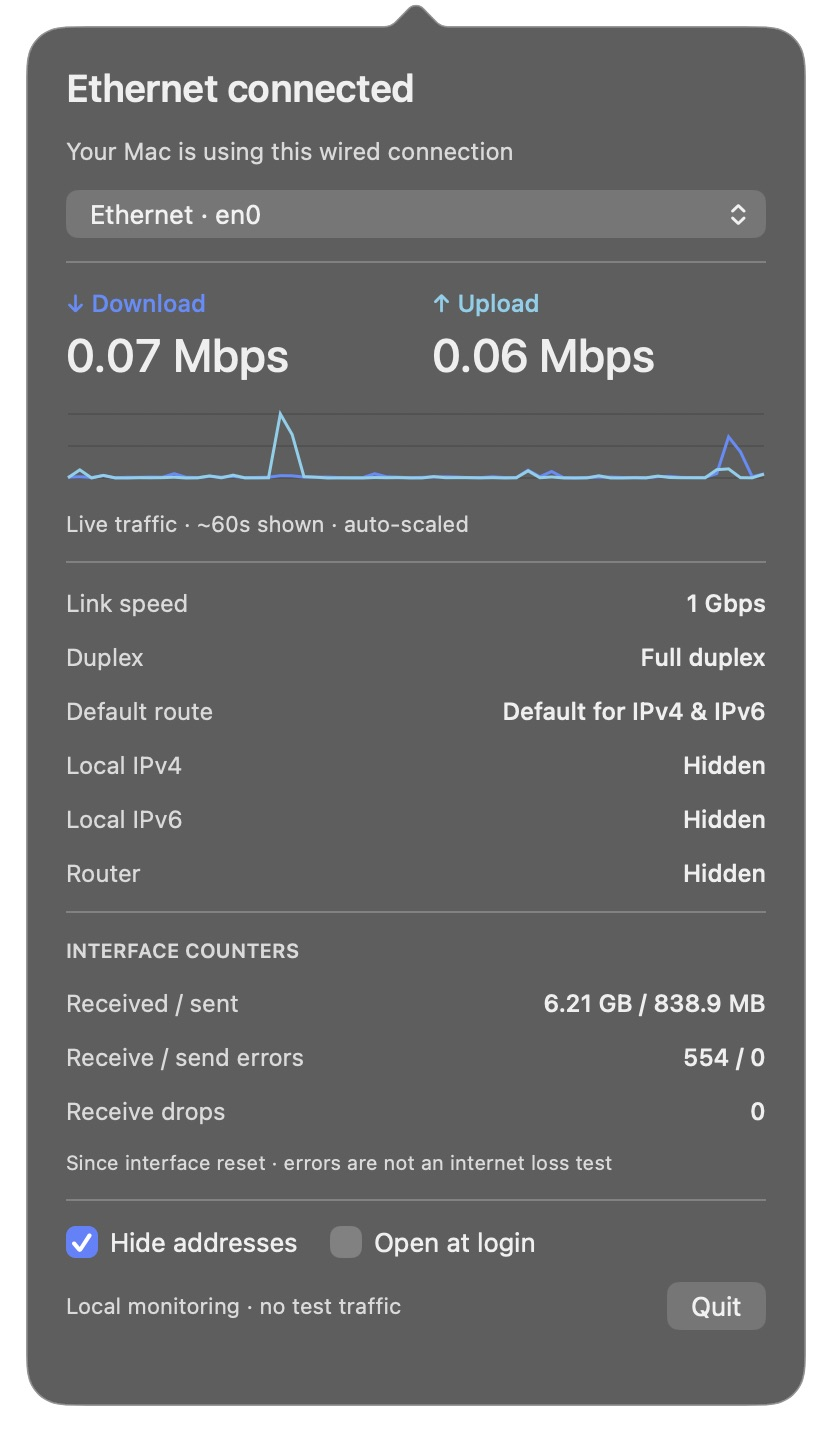
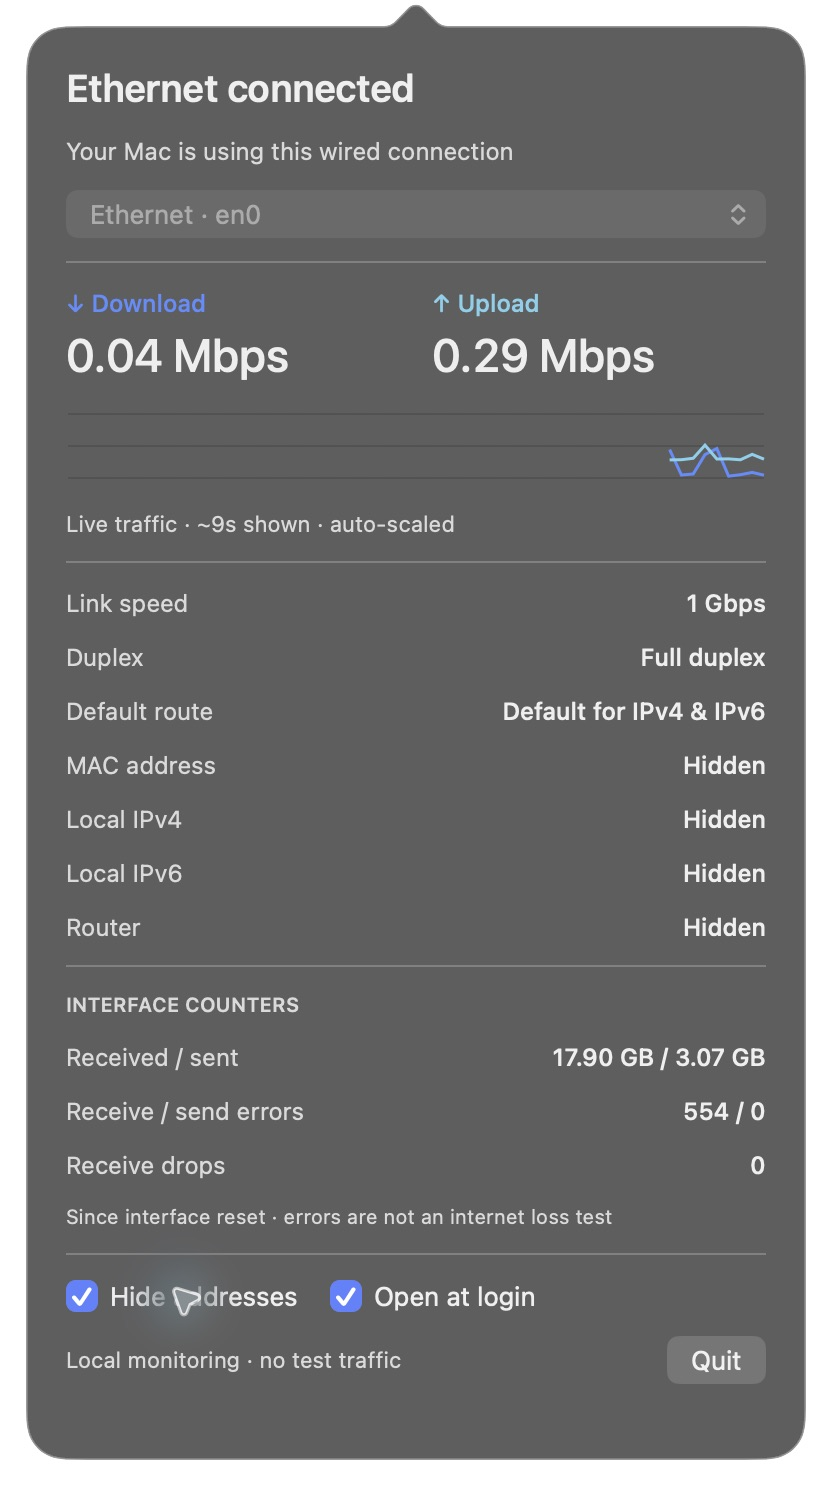
Show in-use Ethernet adapters and selected MAC address

diff --git a/Tests/WiredStatusTests/InterfaceSelectionTests.swift b/Tests/WiredStatusTests/InterfaceSelectionTests.swift
@@ -1,0 +1,58 @@
+import XCTest
+@testable import WiredStatus
+
+final class InterfaceSelectionTests: XCTestCase {
+    private func adapter(_ name: String, link: LinkState = .disconnected, primary: Bool = false, mac: String? = nil) -> InterfaceSnapshot {
+        InterfaceSnapshot(name: name, displayName: "Test Ethernet", link: link, speedBps: 1_000_000_000,
+                          duplex: "Full duplex", ipv4: [], ipv6: [], router: nil,
+                          primaryIPv4: primary, primaryIPv6: false, macAddress: mac)
+    }
+
+    func testQuietLinkedAdaptersStayVisibleAndUnusedSavedChoiceIsSkipped() {
+        let main = adapter("wired-main", link: .connected, primary: true)
+        let peer = adapter("wired-peer", link: .connected)
+        let unused = adapter("unused-usb")
+        let all = [main, unused, peer]
+        let selected = InterfaceSelection.selected(from: all, preferredName: unused.name, previousName: unused.name)
+        XCTAssertEqual(selected?.name, main.name)
+        XCTAssertEqual(InterfaceSelection.visible(from: all, selectedName: selected?.name).map(\.name), [main.name, peer.name])
+    }
+
+    func testDisconnectKeepsLastAdapterAndRemovedAdaptersCannotLeaveAStaleSelection() {
+        let unused = adapter("unused-usb")
+        let dropped = adapter("wired-main")
+        let all = [unused, dropped]
+        let selected = InterfaceSelection.selected(from: all, preferredName: nil, previousName: dropped.name)
+        XCTAssertEqual(selected?.name, dropped.name)
+        XCTAssertEqual(InterfaceSelection.visible(from: all, selectedName: selected?.name).map(\.name), [dropped.name])
+
+        let remaining = InterfaceSelection.selected(from: [unused], preferredName: dropped.name, previousName: dropped.name)
+        XCTAssertEqual(remaining?.name, unused.name)
+        XCTAssertNil(InterfaceSelection.selected(from: [], preferredName: dropped.name, previousName: dropped.name))
+        XCTAssertTrue(InterfaceSelection.visible(from: [], selectedName: dropped.name).isEmpty)
+    }
+
+    func testDefaultRouteWithUnknownDriverLinkStatusRemainsSelectable() {
+        let unavailable = adapter("unused-usb")
+        let defaultRoute = adapter("wired-main", link: .unknown, primary: true)
+        let all = [defaultRoute, unavailable]
+        let selected = InterfaceSelection.selected(from: all, preferredName: unavailable.name, previousName: nil)
+        XCTAssertEqual(selected?.name, defaultRoute.name)
+        XCTAssertEqual(InterfaceSelection.visible(from: all, selectedName: selected?.name).map(\.name), [defaultRoute.name])
+    }
+
+    func testFallbackAndReconnectReturnTheSelectedAdaptersOwnMAC() {
+        // Synthetic locally administered addresses, not real device identities.
+        let main = adapter("wired-main", link: .connected, primary: true, mac: "02:00:00:00:00:01")
+        var dock = adapter("wired-dock", mac: "02:00:00:00:00:02")
+        let fallback = InterfaceSelection.selected(from: [main, dock], preferredName: dock.name, previousName: dock.name)
+        XCTAssertEqual(fallback?.name, main.name)
+        XCTAssertEqual(fallback?.macAddress, main.macAddress)
+
+        dock.link = .connected
+        let restored = InterfaceSelection.selected(from: [main, dock], preferredName: dock.name, previousName: main.name)
+        XCTAssertEqual(restored?.name, dock.name)
+        XCTAssertEqual(restored?.macAddress, dock.macAddress)
+        XCTAssertEqual(InterfaceSelection.visible(from: [main, dock], selectedName: restored?.name).count, 2)
+    }
+}

diff --git a/Sources/WiredStatus/Panel.swift b/Sources/WiredStatus/Panel.swift
@@ -44,6 +44,7 @@ private final class TrafficGraph: NSView {
 }
 
 final class Panel: NSViewController {
+    static let preferredSize = NSSize(width: 390, height: 640)
     let monitor: Monitor
     private let state = text("Ethernet", size: 19, weight: .semibold)
     private let detail = text("", size: 12, color: .secondaryLabelColor)
@@ -63,7 +64,7 @@ final class Panel: NSViewController {
     required init?(coder: NSCoder) { fatalError("init(coder:) has not been implemented") }
 
     override func loadView() {
-        let root = NSView(frame: NSRect(x: 0, y: 0, width: 390, height: 610))
+        let root = NSView(frame: NSRect(origin: .zero, size: Self.preferredSize))
         let stack = NSStackView()
         stack.orientation = .vertical; stack.alignment = .leading; stack.spacing = 12
         stack.translatesAutoresizingMaskIntoConstraints = false
@@ -93,7 +94,7 @@ final class Panel: NSViewController {
         graph.setAccessibilityLabel("Recent download and upload traffic, up to 60 seconds")
         full(graph); full(graphNote)
         full(separator())
-        for key in ["Link speed", "Duplex", "Default route", "Local IPv4", "Local IPv6", "Router"] { full(row(key)) }
+        for key in ["Link speed", "Duplex", "Default route", "MAC address", "Local IPv4", "Local IPv6", "Router"] { full(row(key)) }
         full(separator())
         full(text("INTERFACE COUNTERS", size: 10, weight: .semibold, color: .secondaryLabelColor))
         for key in ["Received / sent", "Receive / send errors", "Receive drops"] { full(row(key)) }
@@ -139,10 +140,11 @@ final class Panel: NSViewController {
 
     func refresh() {
         guard isViewLoaded else { return }
-        let names = monitor.interfaces.map(\.name)
-        if names != pickerNames {
+        let choices = monitor.pickerInterfaces
+        let names = choices.map(\.name)
+        if names != pickerNames || picker.numberOfItems == 0 {
             picker.removeAllItems()
-            for item in monitor.interfaces { picker.addItem(withTitle: "\(item.displayName) · \(item.name)") }
+            for item in choices { picker.addItem(withTitle: "\(item.displayName) · \(item.name)") }
             if names.isEmpty { picker.addItem(withTitle: "No Ethernet adapters") }
             pickerNames = names
         }
@@ -165,6 +167,7 @@ final class Panel: NSViewController {
         fields["Duplex"]?.updateText(item?.link == .connected ? item?.duplex ?? "—" : "—")
         fields["Default route"]?.updateText(MetricFormat.route(item, primary4: monitor.primary4, primary6: monitor.primary6))
         let hidden = hideAddresses.state == .on
+        fields["MAC address"]?.updateText(item?.macAddress.map { hidden ? "Hidden" : $0 } ?? "Unavailable")
         fields["Local IPv4"]?.updateText(address(item?.ipv4 ?? [], hidden: hidden))
         fields["Local IPv6"]?.updateText(address(item?.ipv6 ?? [], hidden: hidden))
         fields["Router"]?.updateText(address(item?.router.map { [$0] } ?? [], hidden: hidden))

diff --git a/Sources/WiredStatus/Monitor.swift b/Sources/WiredStatus/Monitor.swift
@@ -8,6 +8,8 @@ final class Monitor {
     private var workspaceObservers: [NSObjectProtocol] = []
     private var previous: (name: String, sample: CounterSample, time: TimeInterval)?
     private(set) var interfaces: [InterfaceSnapshot] = []
+    private(set) var pickerInterfaces: [InterfaceSnapshot] = []
+    private(set) var selected: InterfaceSnapshot?
     private(set) var counters: CounterSample?
     private(set) var rate: TrafficRate = .zero
     private(set) var history: [TrafficRate] = []
@@ -17,13 +19,8 @@ final class Monitor {
     private(set) var notificationsWorking = false
     var isVisible = false
     var onChange: (() -> Void)?
-    var preferredName: String? = UserDefaults.standard.string(forKey: "selectedInterface")
+    private var preferredName: String? = UserDefaults.standard.string(forKey: "selectedInterface")
     private lazy var reader = NetworkReader(store: store)
-
-    var selected: InterfaceSnapshot? {
-        if let preferredName, let found = interfaces.first(where: { $0.name == preferredName }) { return found }
-        return interfaces.first
-    }
 
     init() {
         var context = SCDynamicStoreContext(version: 0, info: Unmanaged.passUnretained(self).toOpaque(),
@@ -70,6 +67,8 @@ final class Monitor {
         interfaces = reader.interfaces()
         primary4 = reader.primary4
         primary6 = reader.primary6
+        selected = InterfaceSelection.selected(from: interfaces, preferredName: preferredName, previousName: old?.name)
+        pickerInterfaces = InterfaceSelection.visible(from: interfaces, selectedName: selected?.name)
         if old?.name != selected?.name || old?.link != selected?.link { resetSamples() }
         // Configuration notifications update metadata, not the timed graph.
         // Only seed a baseline here; subsequent rate samples come from the timer.

diff --git a/Sources/WiredStatus/Models.swift b/Sources/WiredStatus/Models.swift
@@ -13,6 +13,26 @@ struct InterfaceSnapshot: Codable {
     var router: String?
     var primaryIPv4: Bool
     var primaryIPv6: Bool
+    var macAddress: String? = nil
+
+    // A quiet cable is still in use. Keep a default-route adapter visible even
+    // when its driver cannot report physical link state.
+    var isInUse: Bool { link == .connected || primaryIPv4 || primaryIPv6 }
+}
+
+enum InterfaceSelection {
+    static func selected(from interfaces: [InterfaceSnapshot], preferredName: String?, previousName: String?) -> InterfaceSnapshot? {
+        let preferred = interfaces.first { $0.name == preferredName }
+        if let preferred, preferred.isInUse { return preferred }
+        if let active = interfaces.first(where: \.isInUse) { return active }
+        // Keep the last adapter's disconnected state available. If it has been
+        // physically removed, fall back to one that macOS still knows about.
+        return interfaces.first { $0.name == previousName } ?? preferred ?? interfaces.first
+    }
+
+    static func visible(from interfaces: [InterfaceSnapshot], selectedName: String?) -> [InterfaceSnapshot] {
+        interfaces.filter { $0.isInUse || $0.name == selectedName }
+    }
 }
 
 struct CounterSample: Codable, Equatable {

diff --git a/Sources/WiredStatus/NetworkReader.swift b/Sources/WiredStatus/NetworkReader.swift
@@ -35,7 +35,8 @@ final class NetworkReader {
                                      ipv4: v4["Addresses"] as? [String] ?? [],
                                      ipv6: v6["Addresses"] as? [String] ?? [],
                                      router: v4["Router"] as? String ?? (name == p4 ? global4["Router"] as? String : nil),
-                                     primaryIPv4: name == p4, primaryIPv6: name == p6)
+                                     primaryIPv4: name == p4, primaryIPv6: name == p6,
+                                     macAddress: SCNetworkInterfaceGetHardwareAddressString(interface) as String?)
         }.sorted {
             let a = ($0.primaryIPv4 ? 4 : 0) + ($0.primaryIPv6 ? 2 : 0) + ($0.link == .connected ? 1 : 0)
             let b = ($1.primaryIPv4 ? 4 : 0) + ($1.primaryIPv6 ? 2 : 0) + ($1.link == .connected ? 1 : 0)

diff --git a/Sources/WiredStatus/App.swift b/Sources/WiredStatus/App.swift
@@ -38,7 +38,7 @@ final class AppDelegate: NSObject, NSApplicationDelegate, NSPopoverDelegate {
             let controller = Panel(monitor: monitor)
             let p = NSPopover(); p.behavior = .transient; p.animates = false
             p.contentViewController = controller; p.delegate = self
-            p.contentSize = NSSize(width: 390, height: 610)
+            p.contentSize = Panel.preferredSize
             panel = controller; popover = p
         }
         monitor.show()

diff --git a/README.md b/README.md
@@ -12,18 +12,18 @@ Native vector preview of the menu-bar mark.
 - Negotiated link speed and duplex, including 1, 2.5, 5, and 10 Gbps Ethernet.
 - Live receive/send rates and a 60-second graph, sampled only while the panel is open.
 - Separate physical-link and default-route status for IPv4 and IPv6. A VPN or Wi-Fi default route is named rather than silently called Ethernet.
-- Local addresses, hidden by default, and interface byte/error/drop counters.
-- A native optional Open at login setting and support for multiple adapters.
+- The selected Ethernet adapter's MAC address and local IP/router addresses, hidden by default, with selectable values for copying.
+- A native optional Open at login setting and a picker for adapters with a cable link or default route. Unused interfaces are hidden; one disconnected adapter remains available when none are in use.
 
 Link speed is the Ethernet connection's capacity, **not** an internet speed test. Live rates count all traffic on the selected adapter, including local-network traffic. The graph auto-scales; it isn't a percentage of the link's capacity. Interface errors are cumulative driver counters since reset and aren't an end-to-end packet-loss measurement.
 
+The picker uses connection metadata, so an idle adapter stays visible. It switches away from an unavailable saved selection when another adapter is in use, and restores a preferred adapter when it reconnects. If the last adapter disconnects, its state stays visible; if it is removed, selection safely falls back to an available interface. Metadata and MAC addresses are read only when configuration refreshes, not during the one-second traffic samples.
+
 ## Screenshots
 
-Captured from the app running on a real Mac. Addresses are hidden using its privacy setting. The disconnected screenshot selects an unused adapter; the active connection was not unplugged.
+Captured from version 1.0.2 running on a real Mac. Only its connected adapter appears in the picker. MAC, IP, and router addresses are hidden using the privacy setting.
 
-| Connected | Disconnected |
-| --- | --- |
-| <img src="docs/screenshots/connected.jpg" alt="Connected Ethernet and live metrics" width="390"> | <img src="docs/screenshots/disconnected.jpg" alt="Disconnected adapter" width="390"> |
+<img src="docs/screenshots/connected.jpg" alt="Connected Ethernet with a filtered adapter picker, live metrics, and hidden MAC address" width="390">
 
 ## Build and run
 
@@ -48,7 +48,7 @@ The app stays out of the Dock. Click its menu-bar icon to open the panel. Open a
 
 To put the icon where Wi-Fi used to be, hold **⌘ Command** and drag it along the menu bar to that spot. WiredStatus sets a stable NSStatusItem autosave name so macOS remembers the position after relaunch. It is its own status item; it does not replace Apple's Wi-Fi control or take over Control Centre. [Apple's menu-bar guide](https://support.apple.com/en-hk/guide/mac-help/-mchlp1446/mac)
 
-A locally built Apple Silicon app is also attached to the [v1.0.1 release](https://github.com/ReinoutPaardekooper/wired-status/releases/tag/v1.0.1), with its SHA-256 checksum. The source build remains the inspectable way to reproduce it. No automatic updater contacts GitHub.
+A locally built Apple Silicon app is also attached to the [v1.0.2 release](https://github.com/ReinoutPaardekooper/wired-status/releases/tag/v1.0.2), with its SHA-256 checksum. The source build remains the inspectable way to reproduce it. No automatic updater contacts GitHub.
 
 Release packages omit filesystem extended attributes, quarantine metadata, and build-machine toolchain search paths. To verify a downloaded archive, put it beside the checksum file and run `shasum -a 256 -c WiredStatus-arm64.sha256`.
 
@@ -60,7 +60,7 @@ dist/WiredStatus.app/Contents/MacOS/WiredStatus --diagnostics
 dist/WiredStatus.app/Contents/MacOS/WiredStatus --benchmark
 ```
 
-`--diagnostics` prints current local interface data, including addresses, to the terminal. Neither CLI mode contacts a server. `--benchmark` repeatedly reads existing kernel counters; it measures the cost of the app's sampling API, not network speed.
+`--diagnostics` prints current local interface data, including MAC and IP addresses, to the terminal; keep those outputs private. Neither CLI mode contacts a server. `--benchmark` repeatedly reads existing kernel counters; it measures the cost of the app's sampling API, not network speed.
 
 See [performance measurements and method](docs/performance.md) and [implementation decisions](docs/design.md). Generated builds and local measurement data are excluded from Git. There are no external dependencies, so no dependency lockfile is required.
 

diff --git a/docs/design.md b/docs/design.md
@@ -18,6 +18,10 @@ SCNetworkInterfaceCopyAll discovers Ethernet-class interfaces. A read-only SIOCG
 
 SystemConfiguration's global PrimaryInterface values identify the default IPv4 and IPv6 paths. A physical Ethernet link can exist while Wi-Fi or a VPN is the default. The app displays those states separately. This is route information, not an active internet reachability test.
 
+The picker includes adapters with a confirmed link or a default route, even when no traffic is flowing. When none are in use, it keeps one disconnected selection so the user can see its state. An unavailable preferred adapter yields to an adapter in use and is restored on reconnect; removing an adapter falls back safely. The selection and picker list are cached during configuration refreshes.
+
+SCNetworkInterfaceGetHardwareAddressString supplies each Ethernet interface's MAC address during the same metadata refresh. The panel displays only the selected adapter's address. Hide addresses replaces the field's text and tooltip with "Hidden", so selecting or copying the field cannot reveal the hidden value. Wi-Fi addresses are not read for this field. The MAC lookup adds no timer or traffic.
+
 ## Counters
 
 The C helper reads the selected interface's IFMIB_IFDATA / IFDATA_GENERAL data directly into an ifmibdata structure on the stack. This avoids a heap-allocated dump of every route/interface. Counters are 64-bit. On the test Mac, NET_RT_IFLIST2 returned received bytes modulo 2^32 even though the returned structure had 64-bit fields; IFDATA_GENERAL matched netstat's full value exactly. That real-world check changed the implementation.
@@ -28,6 +32,7 @@ Rates use the actual monotonic elapsed time, rather than assuming the timer fire
 
 - [Apple: NSStatusItem](https://developer.apple.com/documentation/appkit/nsstatusitem)
 - [Apple: SCDynamicStoreSetNotificationKeys](https://developer.apple.com/documentation/systemconfiguration/scdynamicstoresetnotificationkeys(_:_:_:))
+- [Apple: SCNetworkInterfaceGetHardwareAddressString](https://developer.apple.com/documentation/systemconfiguration/scnetworkinterfacegethardwareaddressstring(_:))
 - [Apple: DispatchSourceTimer](https://developer.apple.com/documentation/dispatch/dispatchsourcetimer)
 - [Apple: ifmibdata](https://developer.apple.com/documentation/kernel/ifmibdata)
 - Darwin headers supplied by the local macOS SDK: net/if_media.h, net/if_mib.h, sys/resource.h.

diff --git a/docs/performance.md b/docs/performance.md
@@ -18,6 +18,19 @@ The ARM64 executable is **178,608 bytes (~174.4 KiB)**. A 10,000-read local coun
 
 These are short measurements on one real Mac, not guarantees for every driver, macOS version, or workload. No comparative Rust benchmark was performed.
 
+### Version 1.0.2 check
+
+Measured on the same Mac on 14 October 2026. The MAC field and filtered picker add no dependencies, background timers, or network requests. Metadata is cached during existing configuration refreshes. The ARM64 executable is 195,216 bytes, 16,592 bytes larger than version 1.0.1. All 10,000 local counter reads succeeded in 138.106 ms, or 13.811 µs per read.
+
+| State | CPU, one core | Physical footprint | Measurement window |
+| --- | ---: | ---: | ---: |
+| Fresh launch, icon idle | 0.0438% | 12.42 MB | 20.196 s |
+| Panel closed after use | 0.0060% | 29.95 MB | 20.186 s |
+
+The first window includes startup and framework work, so these short readings are not a before/after CPU comparison. The second window was confirmed to have a closed panel; a subsequent UI inspection reopened it with a fresh sampling baseline. The normal closed-panel sampler remains stopped.
+
+Nine unit tests passed, including new cases for idle linked adapters, default routes with unknown driver link status, disconnection, removal, preferred-adapter reconnection, and selecting the matching adapter's MAC. The reported MAC matched the selected interface in `ifconfig`. The installed app showed only the one adapter in use out of seven discovered interfaces, preserved its login setting, and hid MAC/IP/router fields when Hide addresses was enabled. The current connected screenshot shows this release; the disconnected screenshot retained in the repository is an earlier baseline image.
+
 ## Why this avoids consuming bandwidth
 
 The app reads existing kernel counters and SystemConfiguration data. It doesn't send probes, run speed tests, capture packets, create a proxy/VPN/filter, or sit in the packet forwarding path. Reviewing every source file found no backend URLs, HTTP clients, connect/send/recv calls, subprocess-based network tools, or packet-capture code. `lsof` found no TCP/UDP network connections owned by the live app, both while open and after closing. The SIOCGIFMEDIA helper opens a temporary local ioctl handle without sending anything.
